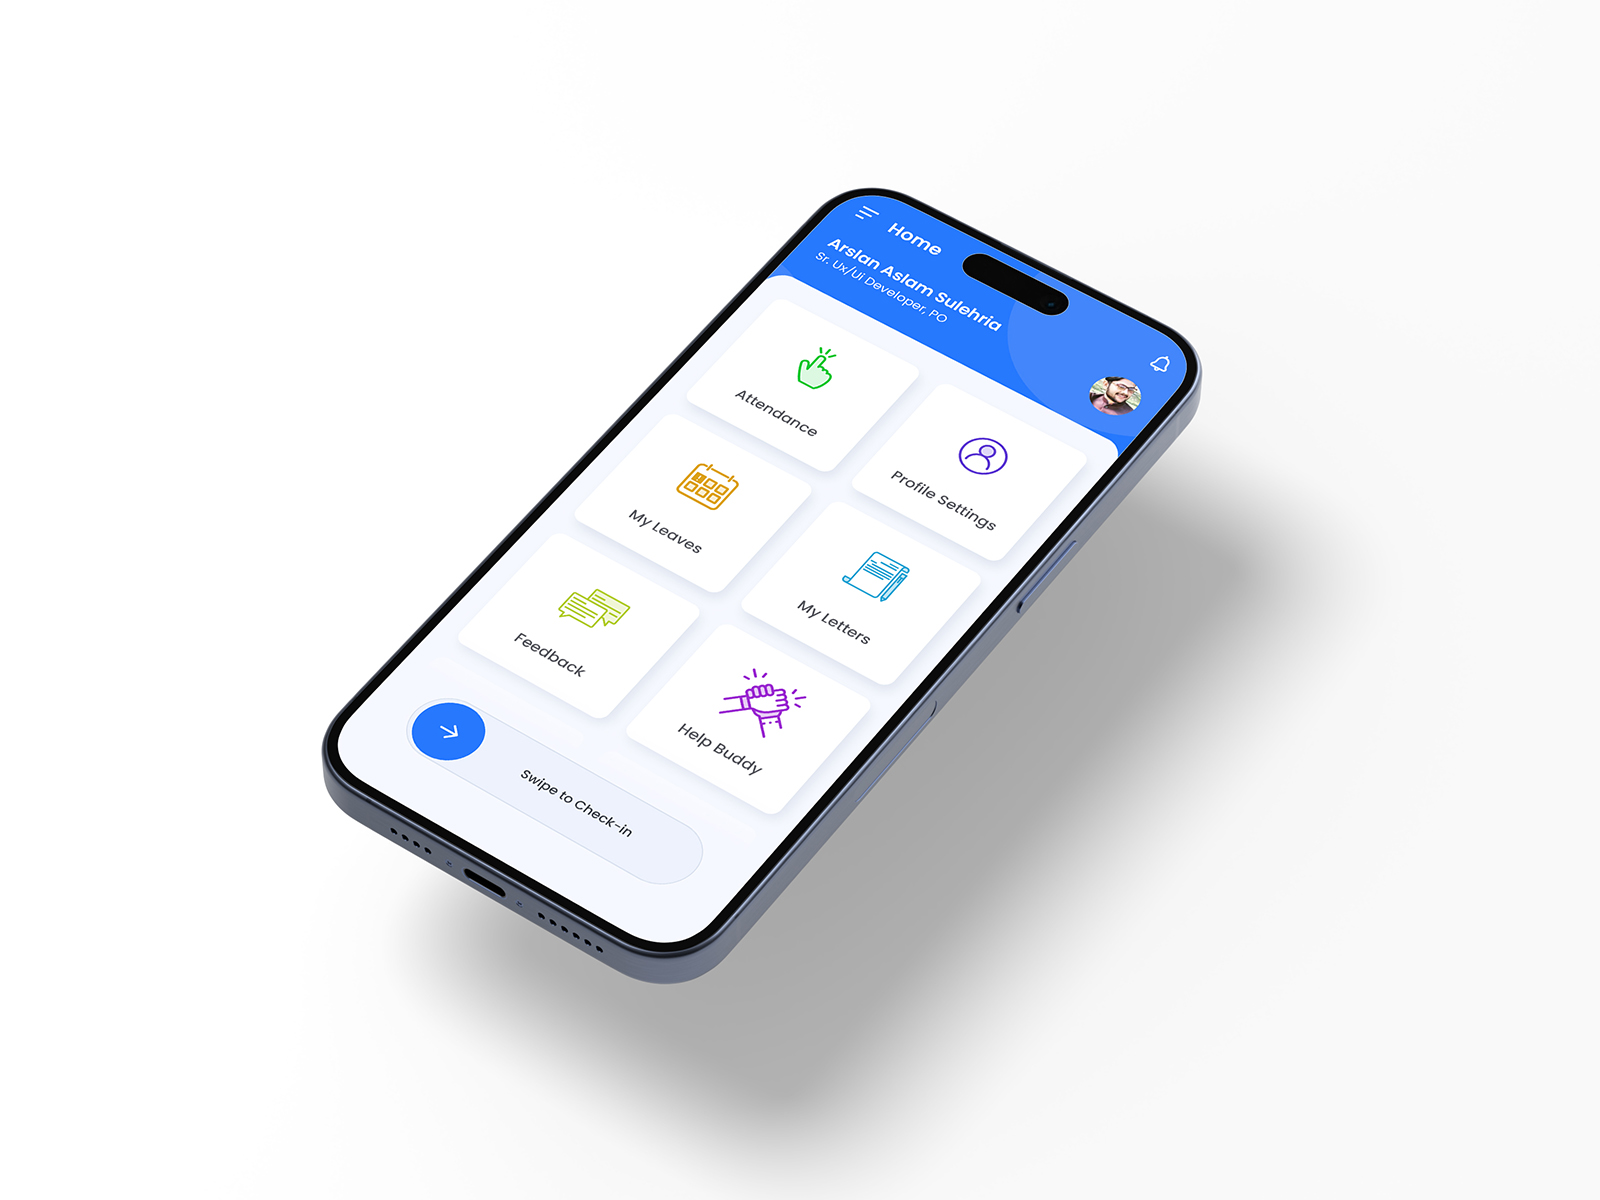
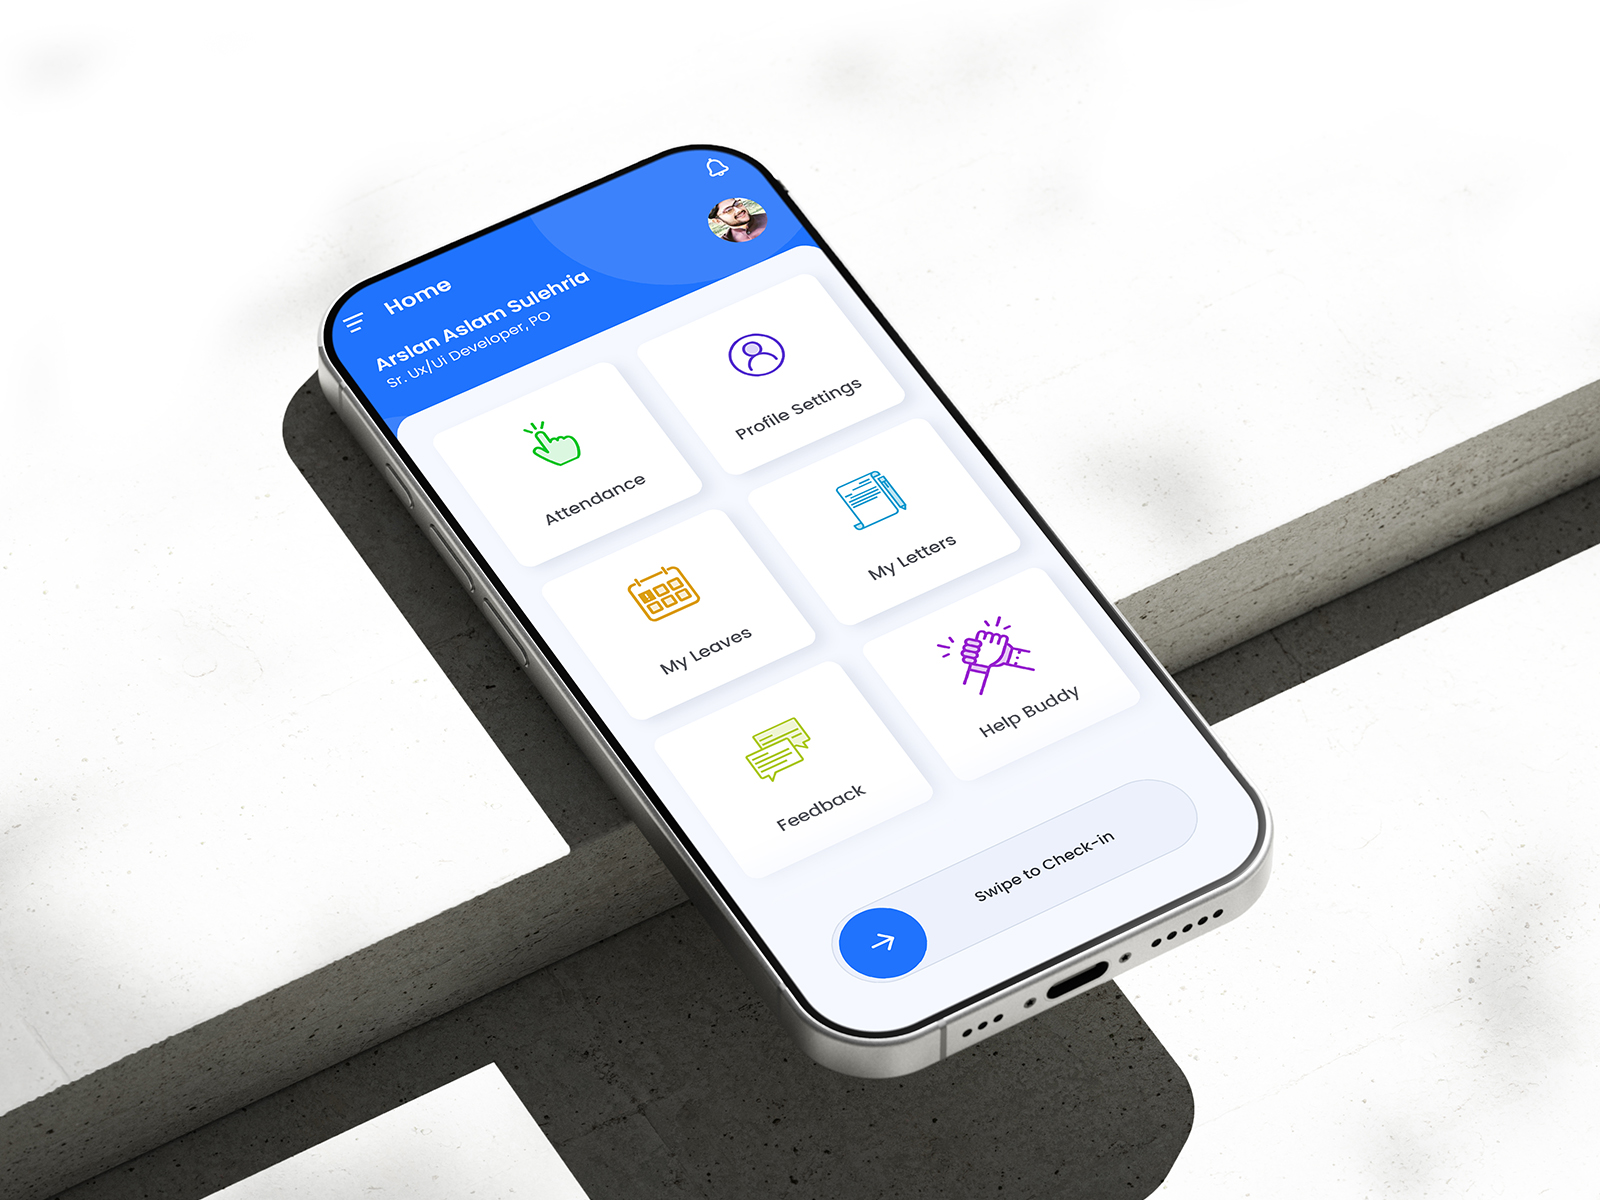
ebiz restored and ess images change, AQI tiles uploaded.

diff --git a/app/v2/work/ebiz/page.js b/app/v2/work/ebiz/page.js
@@ -177,8 +177,23 @@ export default function EBizCaseStudy() {
         {/* Solution screens */}
         <section className="wrapper pb-16">
           <div className="grid grid-cols-1 md:grid-cols-2 gap-4">
-            {["Business type wizard", "Progressive application form", "Applicant dashboard", "Admin CRM for officers"].map((label, i) => (
-              <AnimateIn key={label} delay={i * 0.06}><div className="bg-[var(--color-bg-card)] rounded-2xl aspect-[4/3] flex items-center justify-center text-[var(--color-text-subtle)] text-xs uppercase tracking-[0.2em]">{label}</div></AnimateIn>
+            {[
+              { label: "Sector highlights and main sectors", src: "/images/ebiz/ebiz_tile_1.jpg" },
+              { label: "Application landing with comprehensive guidance", src: "/images/ebiz/ebiz_tile_2.jpg" },
+              { label: "Documents proof upload", src: "/images/ebiz/ebiz_tile_3.jpg" },
+              { label: "Multi-step application flow", src: "/images/ebiz/ebiz_tile_4.jpg" },
+            ].map((tile, i) => (
+              <AnimateIn key={tile.label} delay={i * 0.06}>
+                <div className="bg-[var(--color-bg-card)] rounded-2xl aspect-[4/3] relative overflow-hidden">
+                  <Image
+                    src={tile.src}
+                    alt={tile.label}
+                    fill
+                    sizes="(min-width: 768px) 50vw, 100vw"
+                    className="object-cover"
+                  />
+                </div>
+              </AnimateIn>
             ))}
           </div>
         </section>

diff --git a/app/v2/work/aqi/page.js b/app/v2/work/aqi/page.js
@@ -181,8 +181,23 @@ export default function AQICaseStudy() {
 
         <section className="wrapper pb-16">
           <div className="grid grid-cols-1 md:grid-cols-2 gap-4">
-            {["Real-time dashboard", "Heatmap calendar visualization", "Health precautions by condition", "AQI statistics table"].map((label, i) => (
-              <AnimateIn key={label} delay={i * 0.06}><div className="bg-[var(--color-bg-card)] rounded-2xl aspect-[4/3] flex items-center justify-center text-[var(--color-text-subtle)] text-xs uppercase tracking-[0.2em]">{label}</div></AnimateIn>
+            {[
+              { label: "AQI statistics table", src: "/images/aqi/aqi_tile_1.jpg" },
+              { label: "Health precautions by condition", src: "/images/aqi/aqi_tile_2.jpg" },
+              { label: "Air quality safeguards detail", src: "/images/aqi/aqi_tile_3.jpg" },
+              { label: "Historical air quality data", src: "/images/aqi/aqi_tile_4.jpg" },
+            ].map((tile, i) => (
+              <AnimateIn key={tile.label} delay={i * 0.06}>
+                <div className="bg-[var(--color-bg-card)] rounded-2xl aspect-[4/3] relative overflow-hidden">
+                  <Image
+                    src={tile.src}
+                    alt={tile.label}
+                    fill
+                    sizes="(min-width: 768px) 50vw, 100vw"
+                    className="object-cover"
+                  />
+                </div>
+              </AnimateIn>
             ))}
           </div>
         </section>

diff --git a/lib/projects.js b/lib/projects.js
@@ -98,6 +98,6 @@ export const projects = [
     team: "5–10 people",
     // Hidden from v2 home work grid/horizontal-scroll. Detail page at
     // /v2/work/ebiz still works if accessed directly. Flip to false to restore.
-    hiddenOnV2: true,
+    hiddenOnV2: false,
   },
 ];
